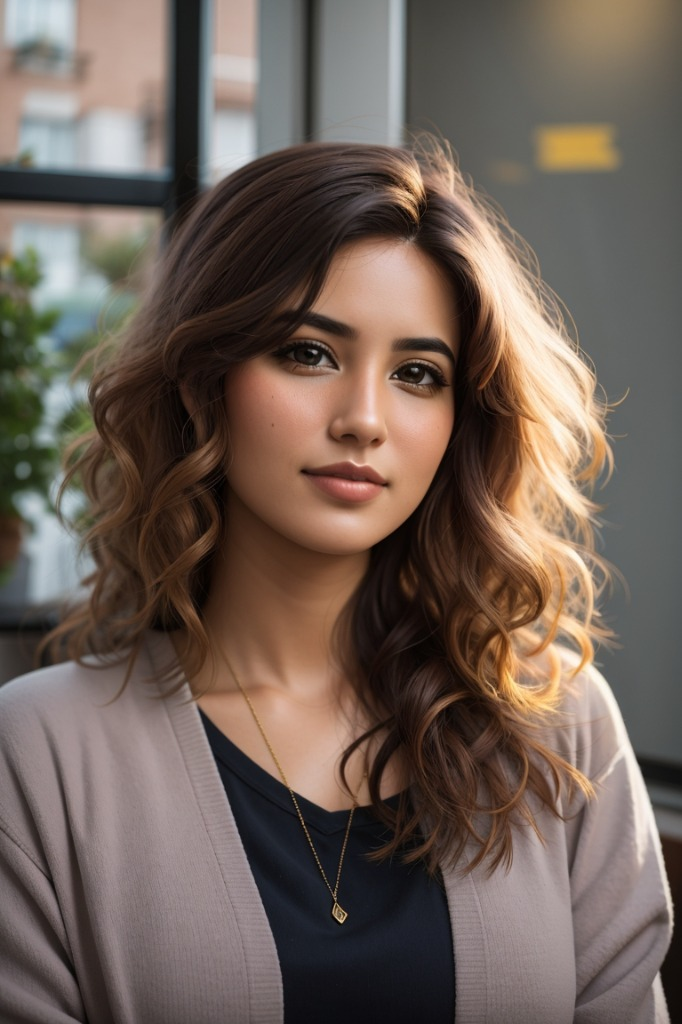
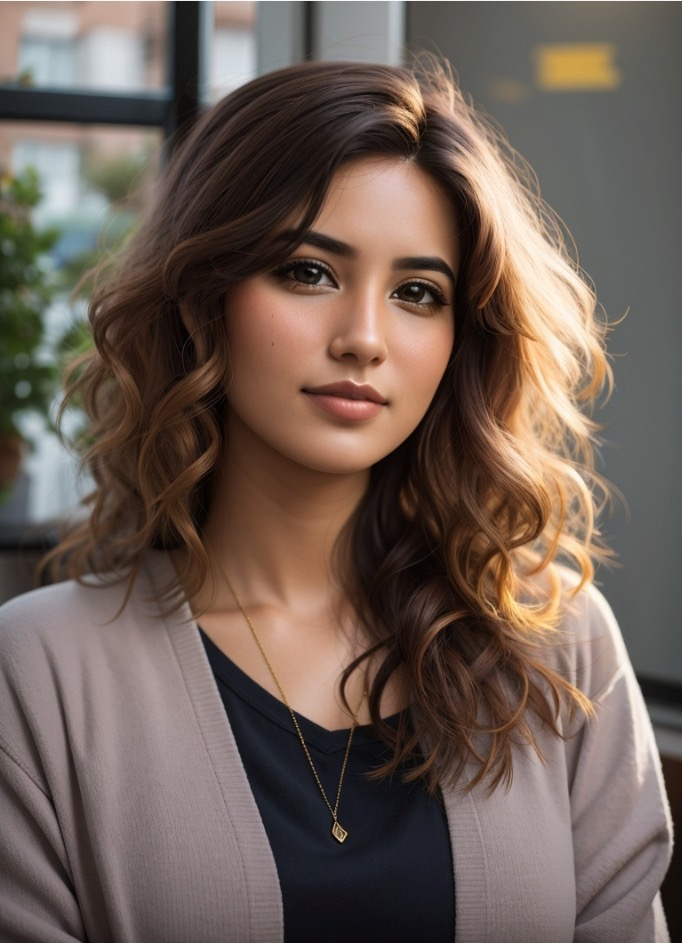
Adjust Elena photo framing/object-position to align headroom with Gabriele & Marco, and enable Lightbox modal zoom for all persona photos

diff --git a/acumen-academy-redesign.html b/acumen-academy-redesign.html
@@ -22,7 +22,7 @@
   <link rel="stylesheet" href="assets/css/homepage.css">
   
   <!-- Case Study CSS -->
-  <link rel="stylesheet" href="assets/css/acumen-academy-redesign.css?v=14.0">
+  <link rel="stylesheet" href="assets/css/acumen-academy-redesign.css?v=15.0">
 </head>
 
 <body>
@@ -613,7 +613,10 @@
               <!-- Persona 1 -->
               <div class="persona-card">
                 <div class="persona-header">
-                  <img src="assets/img/acumen-academy-redesign/gabriele-persona.jpg?v=1.0" alt="Gabriele" class="persona-avatar-img">
+                  <div class="persona-avatar-wrapper" onclick="openImageModal('assets/img/acumen-academy-redesign/gabriele-persona.jpg?v=1.0', 'User Persona — Gabriele (21 anni | Studente)')" title="Clicca per ingrandire la foto">
+                    <img src="assets/img/acumen-academy-redesign/gabriele-persona.jpg?v=1.0" alt="Gabriele" class="persona-avatar-img">
+                    <div class="persona-zoom-badge">🔍 Ingrandisci</div>
+                  </div>
                   <div class="persona-header-text">
                     <h4 class="persona-name">Gabriele</h4>
                     <span class="persona-meta">Età: 21 anni | Studente</span>
@@ -638,7 +641,10 @@
               <!-- Persona 2 -->
               <div class="persona-card">
                 <div class="persona-header">
-                  <img src="assets/img/acumen-academy-redesign/elena-persona.jpg?v=1.0" alt="Elena" class="persona-avatar-img">
+                  <div class="persona-avatar-wrapper" onclick="openImageModal('assets/img/acumen-academy-redesign/elena-persona.jpg?v=1.0', 'User Persona — Elena (29 anni | Assistente Sociale)')" title="Clicca per ingrandire la foto">
+                    <img src="assets/img/acumen-academy-redesign/elena-persona.jpg?v=1.0" alt="Elena" class="persona-avatar-img elena-img">
+                    <div class="persona-zoom-badge">🔍 Ingrandisci</div>
+                  </div>
                   <div class="persona-header-text">
                     <h4 class="persona-name">Elena</h4>
                     <span class="persona-meta">Età: 29 anni | Assistente Sociale</span>
@@ -663,7 +669,10 @@
               <!-- Persona 3 -->
               <div class="persona-card">
                 <div class="persona-header">
-                  <img src="assets/img/acumen-academy-redesign/marco-persona.jpg?v=1.0" alt="Marco" class="persona-avatar-img">
+                  <div class="persona-avatar-wrapper" onclick="openImageModal('assets/img/acumen-academy-redesign/marco-persona.jpg?v=1.0', 'User Persona — Marco (38 anni | Manager Privato)')" title="Clicca per ingrandire la foto">
+                    <img src="assets/img/acumen-academy-redesign/marco-persona.jpg?v=1.0" alt="Marco" class="persona-avatar-img">
+                    <div class="persona-zoom-badge">🔍 Ingrandisci</div>
+                  </div>
                   <div class="persona-header-text">
                     <h4 class="persona-name">Marco</h4>
                     <span class="persona-meta">Età: 38 anni | Manager Privato</span>
@@ -1146,11 +1155,13 @@
     });
   </script>
 
-  <!-- Modal Lightbox per Ingrandire i Video -->
-  <div id="videoLightboxModal" class="video-lightbox-overlay" onclick="closeVideoModal(event)">
+  <!-- Modal Lightbox per Ingrandire Media (Video e Foto) -->
+  <div id="mediaLightboxModal" class="video-lightbox-overlay" onclick="closeMediaModal(event)">
     <div class="lightbox-modal-content" onclick="event.stopPropagation()">
-      <button type="button" class="lightbox-close-btn" onclick="closeVideoModal(event)" aria-label="Chiudi video">&times;</button>
-      <video id="lightboxVideoPlayer" controls loop muted playsinline class="lightbox-video"></video>
+      <button type="button" class="lightbox-close-btn" onclick="closeMediaModal(event)" aria-label="Chiudi modal">&times;</button>
+      <video id="lightboxVideoPlayer" controls loop muted playsinline class="lightbox-video" style="display: none;"></video>
+      <img id="lightboxImageDisplay" src="" alt="Foto Persona Ingrandita" class="lightbox-img" style="display: none;">
+      <div id="lightboxCaption" class="lightbox-caption" style="display: none;"></div>
     </div>
   </div>
 
@@ -1181,25 +1192,67 @@
     }
 
     function openVideoModal(videoSrc) {
-      var modal = document.getElementById('videoLightboxModal');
+      var modal = document.getElementById('mediaLightboxModal');
       var player = document.getElementById('lightboxVideoPlayer');
+      var img = document.getElementById('lightboxImageDisplay');
+      var caption = document.getElementById('lightboxCaption');
+      if (img) img.style.display = 'none';
+      if (caption) caption.style.display = 'none';
+      player.style.display = 'block';
       player.src = videoSrc;
       modal.style.display = 'flex';
       player.play();
     }
-    function closeVideoModal(e) {
-      var modal = document.getElementById('videoLightboxModal');
+
+    function openImageModal(imgSrc, captionText) {
+      var modal = document.getElementById('mediaLightboxModal');
       var player = document.getElementById('lightboxVideoPlayer');
+      var img = document.getElementById('lightboxImageDisplay');
+      var caption = document.getElementById('lightboxCaption');
       if (player) {
         player.pause();
         player.src = '';
+        player.style.display = 'none';
+      }
+      img.src = imgSrc;
+      img.style.display = 'block';
+      if (captionText) {
+        caption.textContent = captionText;
+        caption.style.display = 'block';
+      } else {
+        caption.style.display = 'none';
+      }
+      modal.style.display = 'flex';
+    }
+
+    function closeMediaModal(e) {
+      var modal = document.getElementById('mediaLightboxModal');
+      var player = document.getElementById('lightboxVideoPlayer');
+      var img = document.getElementById('lightboxImageDisplay');
+      var caption = document.getElementById('lightboxCaption');
+      if (player) {
+        player.pause();
+        player.src = '';
+        player.style.display = 'none';
+      }
+      if (img) {
+        img.src = '';
+        img.style.display = 'none';
+      }
+      if (caption) {
+        caption.style.display = 'none';
       }
       if (modal) {
         modal.style.display = 'none';
       }
     }
+
+    function closeVideoModal(e) {
+      closeMediaModal(e);
+    }
+
     document.addEventListener('keydown', function(e) {
-      if (e.key === 'Escape') closeVideoModal(e);
+      if (e.key === 'Escape') closeMediaModal(e);
     });
   </script>
 

diff --git a/assets/css/acumen-academy-redesign.css b/assets/css/acumen-academy-redesign.css
@@ -609,6 +609,39 @@ body {
   padding-bottom: 14px;
   min-height: 124px;
 }
+.persona-avatar-wrapper {
+  position: relative;
+  cursor: pointer;
+  display: inline-block;
+  flex-shrink: 0;
+  border-radius: 8px;
+  overflow: hidden;
+  transition: transform 0.2s ease, box-shadow 0.2s ease;
+}
+.persona-avatar-wrapper:hover {
+  transform: scale(1.03);
+  box-shadow: 0 4px 12px rgba(0,0,0,0.15);
+}
+.persona-avatar-wrapper:hover .persona-zoom-badge {
+  opacity: 1;
+}
+.persona-zoom-badge {
+  position: absolute;
+  bottom: 4px;
+  left: 50%;
+  transform: translateX(-50%);
+  background: rgba(15, 23, 42, 0.8);
+  color: #FFFFFF;
+  font-size: 10px;
+  font-weight: 600;
+  padding: 3px 7px;
+  border-radius: 4px;
+  opacity: 0;
+  transition: opacity 0.2s ease;
+  white-space: nowrap;
+  pointer-events: none;
+  backdrop-filter: blur(2px);
+}
 .persona-avatar-img {
   width: 90px;
   height: 110px;
@@ -616,8 +649,11 @@ body {
   object-fit: cover;
   object-position: top center;
   border: 1px solid #CBD5E1;
-  flex-shrink: 0;
+  display: block;
   box-shadow: 0 2px 8px rgba(0,0,0,0.06);
+}
+.persona-avatar-img.elena-img {
+  object-position: center 18%;
 }
 .persona-header-text {
   display: flex;
@@ -1006,4 +1042,23 @@ body {
   .protocol-cards-grid {
     grid-template-columns: 1fr;
   }
+}
+
+/* Lightbox Modal per Immagini */
+.lightbox-img {
+  max-width: 85vw;
+  max-height: 80vh;
+  border-radius: 12px;
+  object-fit: contain;
+  box-shadow: 0 12px 36px rgba(0, 0, 0, 0.4);
+  border: 1px solid rgba(255, 255, 255, 0.15);
+}
+.lightbox-caption {
+  margin-top: 14px;
+  color: #F8FAFC;
+  font-family: 'Poppins', sans-serif;
+  font-size: 15px;
+  font-weight: 600;
+  text-align: center;
+  letter-spacing: 0.01em;
 }
